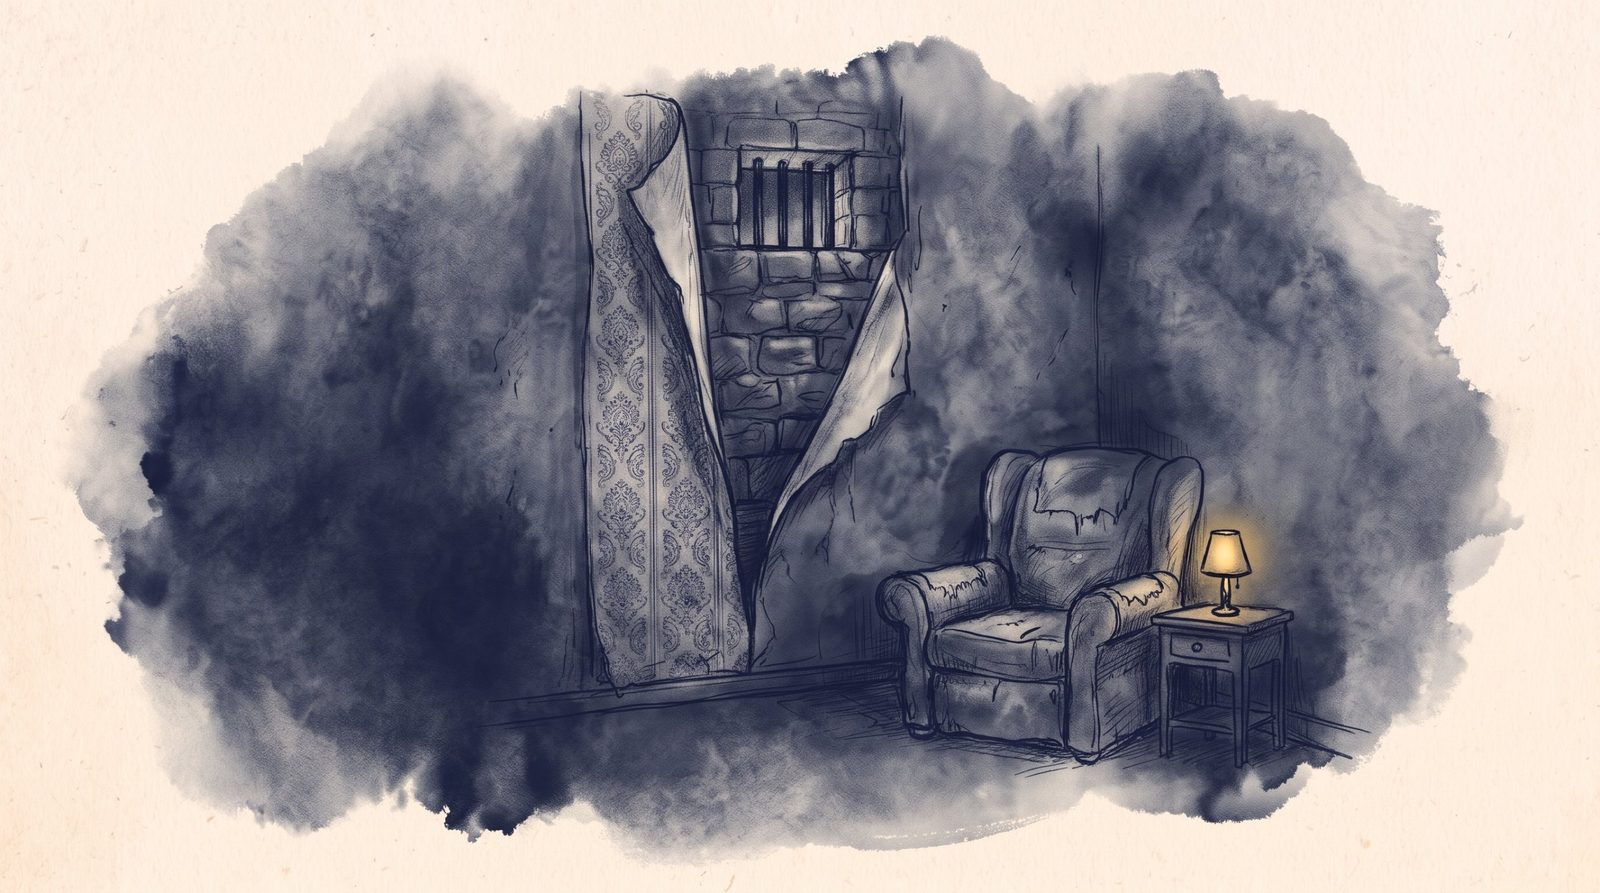
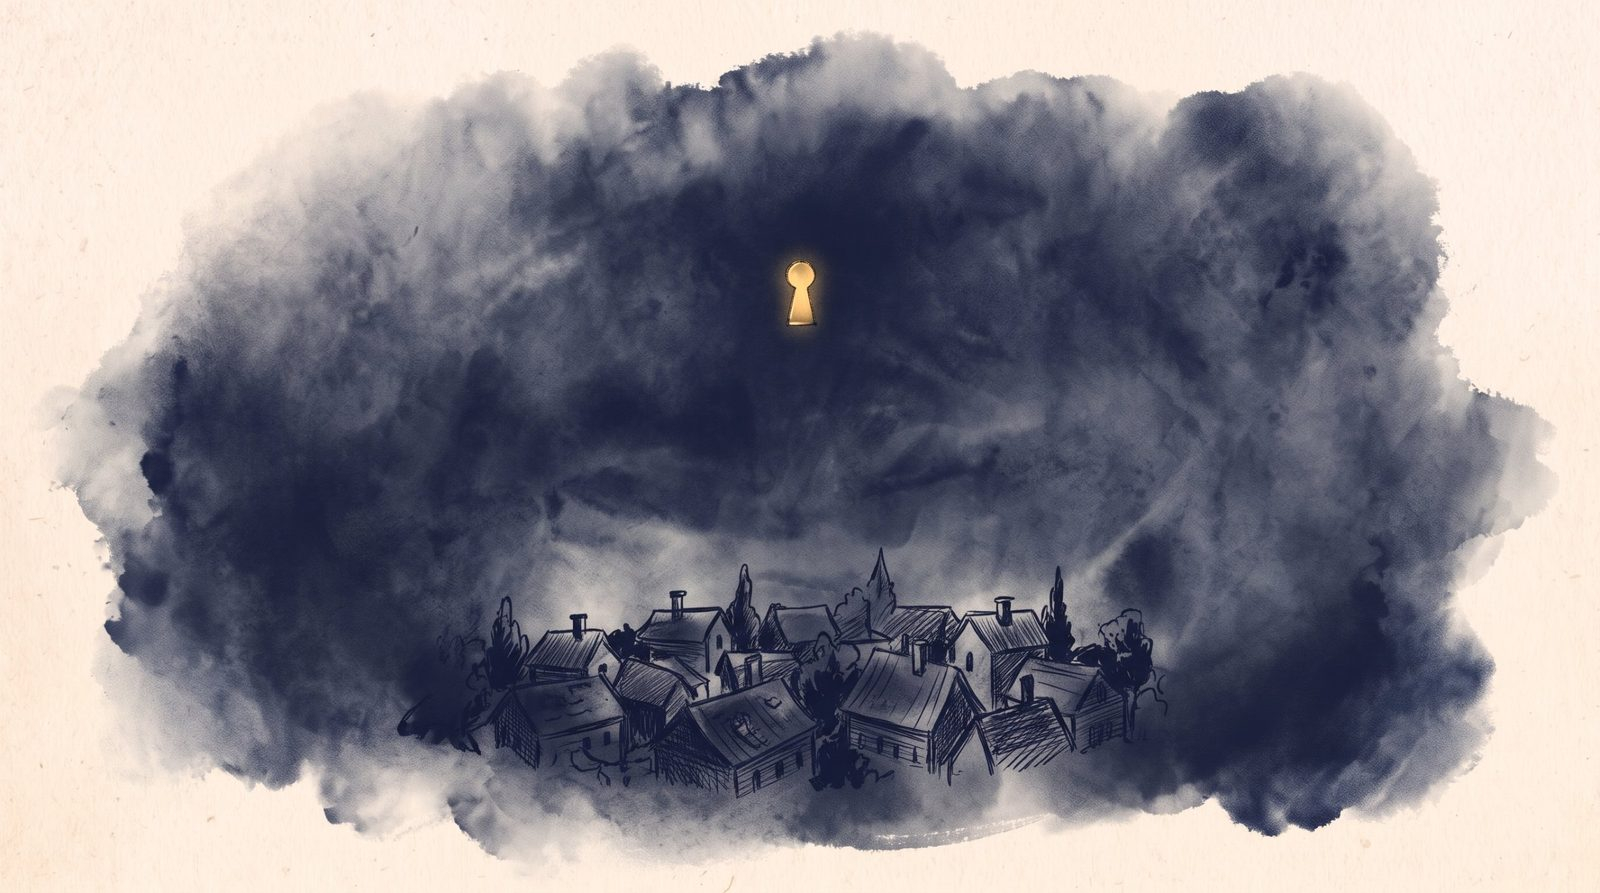
Dům, ze kterého nejde odejít: surrealistické obrázky (měsíc jako klíčová dírka, okno na pláni)
Claude-Session: https://claude.ai/code/session_01B7obWNd8t3eyi15XpW3dtB

diff --git a/docs/obrazky-putovani.md b/docs/obrazky-putovani.md
@@ -18,7 +18,7 @@ Stav 2026-11-23: styl nalezený po pěti kolech zkoušek (náhled `/putovani/nav
 - Masky: `maska/<slug>-N.png` podle tuše pro tmavý motiv (`python3 scripts/ink-masks.py`, pak zkopírovat z `navrh-obrazku/maska/`, nebo upravit cestu ve skriptu), `maska/freska.png` obecná.
 - Které putování obrázky má: `READY` v `src/lib/trail-images.ts`. Obrázky se ukážou jen u schválené eseje.
 - Rejstřík `/putovani/` má rozvržení karet ve dvou sloupcích s obrázkem nahoře (C, vybráno ze tří variant: A obraz za textem, B střídavé desky). Dokud nemají obrázky všechna putování, stojí vedle karty s obrázkem textové karty.
-- Na webu (2026-11-23): Bohové jako břemeno (katedrála ze žeber, kamenné víčko); Dům, ze kterého nejde odejít (tapeta odloupnutá na zeď cely, dveře se zlatou škvírou; z pěti motivů, zbylé kolébka, dům v domě, věž). Postup: 5 motivů z otázky a obrazů eseje, vybrat 2. Masky: `python3 scripts/ink-masks.py public/putovani-obrazky/<slug>-1.jpg …`.
+- Na webu (2026-11-23): Bohové jako břemeno (katedrála ze žeber, kamenné víčko); Dům, ze kterého nejde odejít (měsíc jako zlatá klíčová dírka nad městečkem, okno uprostřed pláně s pokojem uvnitř). Postup: 5 motivů, vybrat 2. **Motivy: jemný surrealismus, neobvyklé spojení předmětů (v duchu Magritta), jen lehce doslovné** — první kolo s doslovnými motivy (tapeta, dveře, kolébka) majitel zamítl jako nenápadité. Do promptu řádek `Mood: subtle surrealism in the spirit of Magritte: one unexpected combination, quiet and uncanny, never literal or explanatory.` Masky: `python3 scripts/ink-masks.py public/putovani-obrazky/<slug>-1.jpg …`.
 
 ## Jak generovat
 
